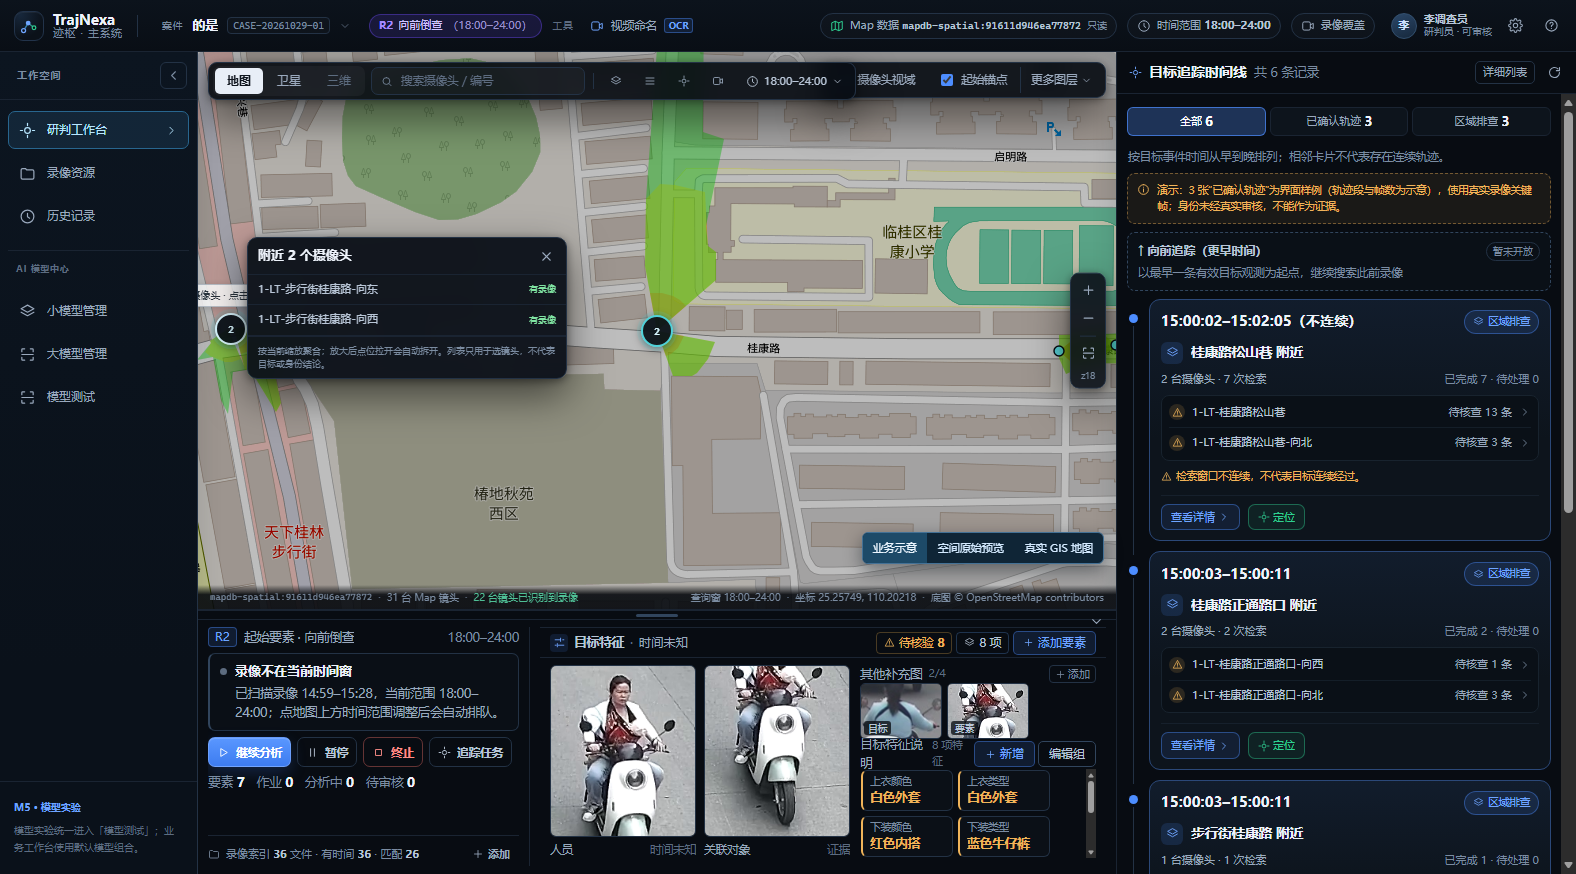
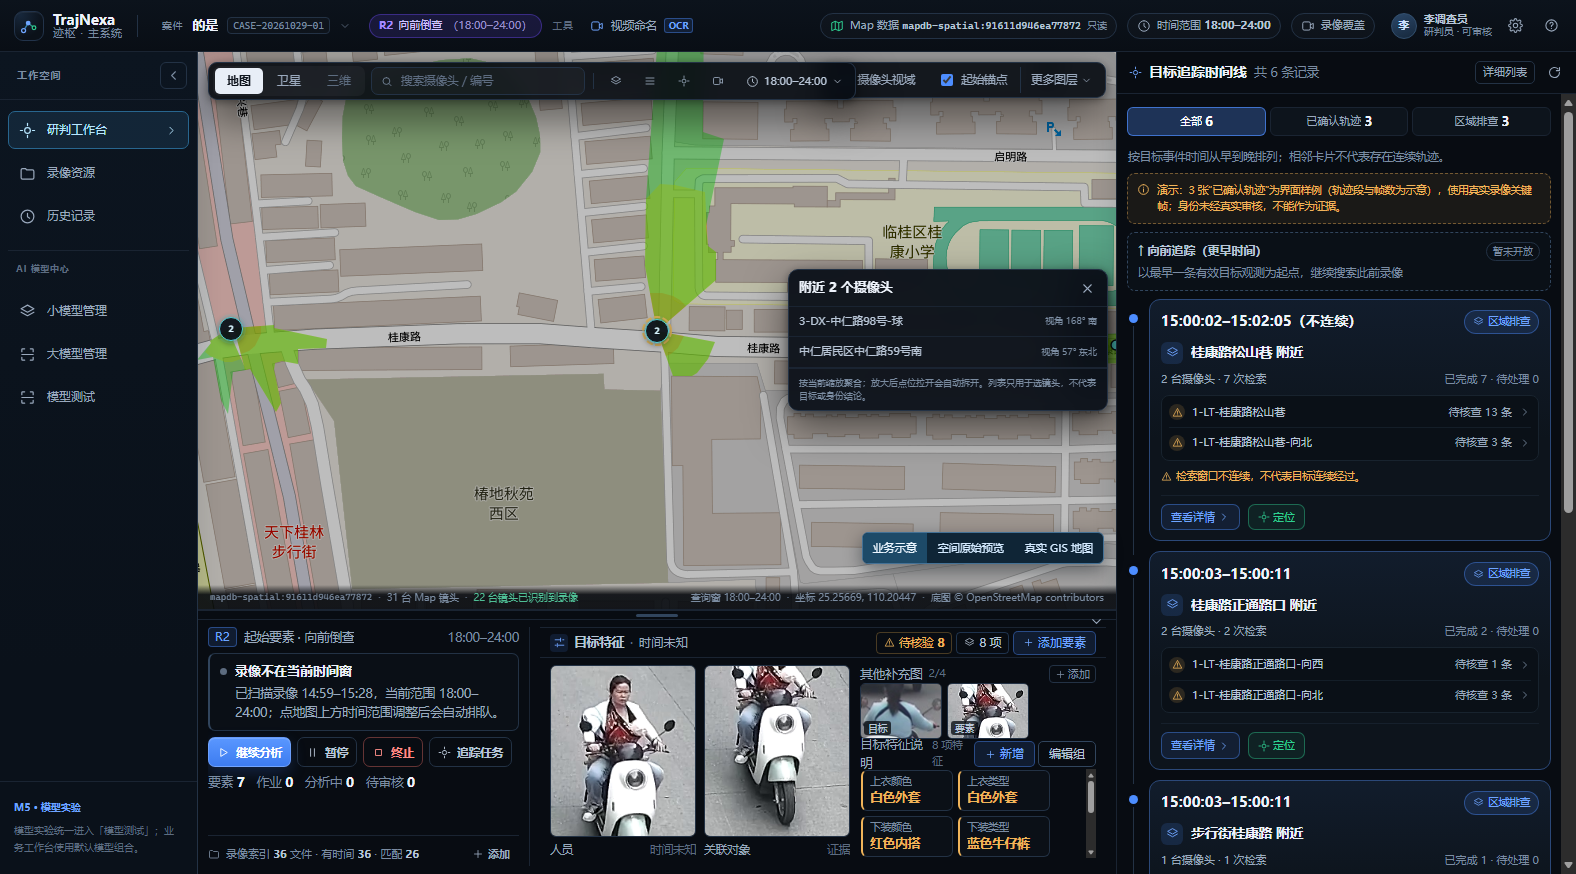
feat(map): compact clusters, bearing rows and camera tabs

Changed region(s): [[0.4664, 0.278, 0.7151, 0.5252], [0.1244, 0.2471, 0.3731, 0.4634], [0.4042, 0.3398, 0.4353, 0.4016]]

diff --git a/frontend/src/components/WorkspaceMap.vue b/frontend/src/components/WorkspaceMap.vue
@@ -1,5 +1,5 @@
 <script setup lang="ts">
-import { computed, onBeforeUnmount, onMounted, ref, watch } from "vue";
+import { computed, nextTick, onBeforeUnmount, onMounted, ref, watch } from "vue";
 import L from "leaflet";
 import "leaflet/dist/leaflet.css";
 import AppIcon from "./ui/AppIcon.vue";
@@ -331,6 +331,16 @@ function applyCustomWindow() {
  * 添加要素（截图）不再影响点灯；没有扫描结果时一律灰色。
  */
 const isRealLit = (camera: SnapshotCamera) => recordingCameraUuids.value.has(camera.camera_uuid ?? "");
+const COMPASS_8 = ["北", "东北", "东", "东南", "南", "西南", "西", "西北"];
+
+/** 视角方向来自 Map 台账的 bearing_deg；没有朝向时明确写未知，不用录像状态替代。 */
+function bearingText(camera: SnapshotCamera): string {
+  const value = camera.bearing_deg;
+  if (value == null || !Number.isFinite(value)) return "未知";
+  const deg = ((value % 360) + 360) % 360;
+  return `${Math.round(deg)}° ${COMPASS_8[Math.round(deg / 45) % 8]}`;
+}
+
 const windowLabel = computed(
   () => `${minutesToLabel(timeWindow.start)}–${timeWindow.end >= 1440 ? "24:00" : minutesToLabel(timeWindow.end)}`,
 );
@@ -343,6 +353,7 @@ const realCardOpen = ref(false);
 /* 镜头聚合：按当前缩放下的屏幕距离分组，避免同一路口的多个点位完全叠在一起。 */
 const CLUSTER_RADIUS_PX = 44;
 const clusterCardOpen = ref(false);
+const clusterTab = ref<CameraTab>("info");
 const clusterMembers = ref<SnapshotCamera[]>([]);
 
 const cardLatLng = ref<L.LatLng | null>(null);
@@ -497,7 +508,7 @@ function drawCameraMarker(camera: SnapshotCamera) {
 
 function drawClusterMarker(group: CameraCluster) {
   const count = group.members.length;
-  const size = count > 9 ? 38 : 32;
+  const size = count > 9 ? 28 : 24;
   const marker = L.marker([group.lat, group.lon], {
     icon: L.divIcon({
       className: "cam-cluster",
@@ -538,6 +549,7 @@ function openCluster(members: SnapshotCamera[], lat: number, lon: number) {
     return litA - litB || cameraCode(a).localeCompare(cameraCode(b), "zh-Hans-CN");
   });
   clusterCardOpen.value = true;
+  clusterTab.value = "info";
   realCardOpen.value = false;
   anchorCardOpen.value = false;
   selectedRealId.value = null;
@@ -545,13 +557,18 @@ function openCluster(members: SnapshotCamera[], lat: number, lon: number) {
   placeCard();
 }
 
-function pickClusterCamera(camera: SnapshotCamera) {
+function pickClusterCamera(camera: SnapshotCamera, tab: CameraTab = "info") {
   clusterCardOpen.value = false;
   pickReal(camera);
+  // 镜头切换的 watcher 会先重置为「摄像头信息」；等它跑完再落到聚合卡选中的页签。
+  void nextTick(() => {
+    cameraTab.value = tab;
+  });
 }
 
 function closeClusterCard() {
   clusterCardOpen.value = false;
+  clusterTab.value = "info";
 }
 
 function pickAnchor(elementId: string) {
@@ -1654,6 +1671,13 @@ function focusAnchor() {
           <h3 class="cam-name">附近 {{ clusterMembers.length }} 个摄像头</h3>
           <button class="icon-btn" aria-label="关闭摄像头列表" @click="closeClusterCard"><AppIcon name="close" :size="13" /></button>
         </header>
+
+        <nav class="cam-tabs cam-cluster-tabs" role="tablist" aria-label="聚合摄像头页签">
+          <button type="button" role="tab" class="cam-tab" :class="{ 'is-on': clusterTab === 'info' }" :aria-selected="clusterTab === 'info'" @click="clusterTab = 'info'">摄像头信息</button>
+          <button type="button" role="tab" class="cam-tab" :class="{ 'is-on': clusterTab === 'investigate' }" :aria-selected="clusterTab === 'investigate'" @click="clusterTab = 'investigate'">目标排查</button>
+        </nav>
+
+        <p v-if="clusterTab === 'investigate'" class="cam-cluster-lead">选择镜头后进入该镜头的目标排查。</p>
         <div class="cam-cluster-list">
           <button
             v-for="camera in clusterMembers"
@@ -1661,10 +1685,10 @@ function focusAnchor() {
             type="button"
             class="cam-cluster-row"
             :title="cameraCode(camera)"
-            @click="pickClusterCamera(camera)"
+            @click="pickClusterCamera(camera, clusterTab)"
           >
             <span class="cc-name">{{ cameraCode(camera) }}</span>
-            <span class="cc-state" :class="{ 'is-lit': isRealLit(camera) }">{{ isRealLit(camera) ? "有录像" : "无录像" }}</span>
+            <span class="cc-bearing" :title="`视角方向：${bearingText(camera)}`">视角 {{ bearingText(camera) }}</span>
           </button>
         </div>
         <p class="cam-cluster-note">按当前缩放聚合；放大后点位拉开会自动拆开。列表只用于选镜头，不代表目标或身份结论。</p>
@@ -2370,6 +2394,18 @@ function focusAnchor() {
   padding: 0 10px 8px;
 }
 
+.cam-cluster-card .cam-tabs {
+  margin: 0 10px 8px;
+}
+
+.cam-cluster-lead {
+  margin: 0;
+  padding: 0 10px 7px;
+  font-size: 9px;
+  line-height: 1.45;
+  color: var(--text-3);
+}
+
 .cam-cluster-list {
   display: grid;
   max-height: 236px;
@@ -2407,14 +2443,12 @@ function focusAnchor() {
   white-space: nowrap;
 }
 
-.cc-state {
+.cc-bearing {
   flex: none;
   font-size: 9px;
-  color: var(--text-4);
-}
-
-.cc-state.is-lit {
-  color: #7fe3a1;
+  color: var(--text-3);
+  font-variant-numeric: tabular-nums;
+  white-space: nowrap;
 }
 
 .cam-cluster-note {
@@ -2845,13 +2879,13 @@ function focusAnchor() {
   display: flex;
   align-items: center;
   justify-content: center;
-  border: 2px solid #4fd1d9;
+  border: 1.5px solid #4fd1d9;
   border-radius: 50%;
   background: rgba(8, 17, 24, 0.94);
   color: #d8f6ff;
-  font: 600 11px/1 ui-monospace, SFMono-Regular, Menlo, monospace;
+  font: 600 10px/1 ui-monospace, SFMono-Regular, Menlo, monospace;
   font-variant-numeric: tabular-nums;
-  box-shadow: 0 0 0 4px rgba(79, 209, 217, 0.16), 0 2px 8px rgba(0, 0, 0, 0.5);
+  box-shadow: 0 0 0 3px rgba(79, 209, 217, 0.14), 0 2px 6px rgba(0, 0, 0, 0.45);
   cursor: pointer;
 }
 

diff --git a/design/80_地图摄像头聚合与多行列表.md b/design/80_地图摄像头聚合与多行列表.md
@@ -4,13 +4,14 @@
 
 - 日期：2026-11-07。
 - 用户要求（m08914）：地图上的摄像头缺少聚合；放大后仍聚合时，点击显示多行卡片。
+- 用户后续（m09336）：聚合点再小一些；聚合卡每行右侧不放「有录像 / 无录像」，改为视角方向；点击摄像头在名称下方插入「摄像头信息 / 目标排查」TAB。
 - 本轮只改 `frontend/src/components/WorkspaceMap.vue` 的镜头点位渲染和卡片，不新增后端接口、不修改 TrajNexa_Map、不写数据库、不产生正式 L2 或身份结论。
-- 聚合只是地图交互：解决同一路口多个镜头点位互相遮挡、单点难以点选的问题；聚合数量、列表行和「有录像」标记都不代表目标、身份或空间精度。
+- 聚合只是地图交互：解决同一路口多个镜头点位互相遮挡、单点难以点选的问题；聚合数量、列表行和单镜头点亮状态都不代表目标、身份或空间精度。
 
 ## 2. 聚合规则
 
 - 以当前缩放级别下的屏幕像素距离分组，阈值 `CLUSTER_RADIUS_PX = 44`。
-- 同一组至少 2 台镜头时显示青色聚合点，圆内数字为镜头数；只有 1 台时仍显示原来的单镜头圆点。
+- 同一组至少 2 台镜头时显示青色聚合点，圆内数字为镜头数；只有 1 台时仍显示原来的单镜头圆点。聚合点直径 24px，数量 >9 时 28px（收尾前为 32/38px）。
 - 聚合只按屏幕距离，不按道路、名称或案件关系；不使用最大运动块、不调用追踪候选、不推断镜头之间的物理关系。
 - 已选中的镜头永不并入聚合，始终单独绘制，保证它的单镜头卡片有明确锚点。
 - `zoomend` 时只重绘镜头点位层，重新计算聚合；缩放后点位间距拉开会自动拆开。
@@ -18,11 +19,13 @@
 
 ## 3. 交互
 
-- 点击单镜头点：沿用原行为，打开镜头卡（摄像头信息 / 目标排查两个页签）。
-- 点击聚合点：打开「附近 N 个摄像头」多行卡片；每行显示镜头名称和「有录像 / 无录像」。
-- 点击列表行：收起聚合卡，打开该镜头的单镜头卡；不会自动创建排查任务，也不会改变镜头状态。
+- 点击单镜头点：沿用原行为，打开镜头卡；名称下方固定「摄像头信息 / 目标排查」两个页签。
+- 点击聚合点：打开「附近 N 个摄像头」卡片；标题下方同样有「摄像头信息 / 目标排查」两个页签，默认「摄像头信息」。
+- 聚合卡每行显示镜头名称和视角方向，例如 `视角 168° 南`；`bearing_deg` 缺失时写 `视角 未知`，不拿录像状态替代方向。方向来自 Map 台账 `bearing_deg`，按整数度 + 8 方位显示，不代表 FOV 边界。
+- 聚合卡不再显示有/无录像文字；单镜头点仍按既有规则显示亮/灰，聚合卡不重复录像状态。排序仍按「有录像」优先、名称排序。
+- 「摄像头信息」页签点击行：收起聚合卡，打开单镜头卡的「摄像头信息」页签。
+- 「目标排查」页签显示「选择镜头后进入该镜头的目标排查。」；点击行：收起聚合卡，打开单镜头卡并直接落在「目标排查」页签；不会自动创建排查任务，也不会改变镜头状态。
 - 关闭聚合卡：点击卡片关闭按钮、点击地图空白处、缩放地图、切换其他镜头/锚点/观测卡片，或关闭 Map 镜头图层。
-- 列表按「有录像」优先、名称排序；「有录像」仍沿用 `recordingCameraUuids` 的名称匹配结果，只表示录像资源识别到该镜头，不代表设备在线，也不代表画面中出现了目标。
 
 ## 4. 隔离边界
 
@@ -33,18 +36,26 @@
 ## 5. 实测
 
 - `npx vue-tsc --noEmit`：exit 0。
-- `npx vite build`：exit 0（626.76 kB JS，仅 chunk-size warning）。
-- Playwright（Edge CDP 9222，1576×874，案件 `4da6cac0-5047-488e-af49-087e1513eb17`）：
-  - 初始视图 11 个聚合点，数字为 `2/3/2/3/2/3/2/2/2/2/2`；放大到 z19 后为 9 个聚合点，部分点位拆开。
-  - 点击可见的 2 镜头聚合点，出现「附近 2 个摄像头」卡片，卡片 320×141.875，两行分别为 `1-LT-步行街桂康路-向东`、`1-LT-步行街桂康路-向西`，均标「有录像」。
-  - 点击第一行后聚合卡消失，单镜头卡出现，名称为 `1-LT-步行街桂康路-向东`；参考图/页签行为不变。
+- `npx vite build`：exit 0（627.82 kB JS，仅 chunk-size warning）。
+- Playwright（Edge CDP 9222，2560×1271，案件 `4da6cac0-5047-488e-af49-087e1513eb17`）：
+  - 初始视图 11 个聚合点，首个聚合点 24×24；放大到 z19 后为 9 个聚合点，部分点位拆开。
+  - 点击 2 镜头聚合点：卡片 320×181.27，标题下出现「摄像头信息 / 目标排查」两个页签，默认「摄像头信息」；两行分别显示 `视角 168° 南`、`视角 57° 东北`，不再显示有/无录像。
+  - 切到「目标排查」：显示「选择镜头后进入该镜头的目标排查。」；点击第一行后聚合卡消失，单镜头卡 360×205.39，名称下方页签仍在，并直接落在「目标排查」。
+  - 从「摄像头信息」页签点击行：单镜头卡默认落在「摄像头信息」；从「目标排查」页签点击行：默认落在「目标排查」。
   - 点击地图空白处或缩放后聚合卡收起；关闭「Map 镜头」图层不残留聚合点。
 - 控制台唯一的 404 是既有的追踪候选证据图请求，与本改动无关。
 
-![摄像头聚合与多行列表](assets/80_camera_clusters.png)
+![聚合卡中的视角方向](assets/80_camera_clusters.png)
+
+![聚合卡页签与目标排查引导](assets/80_cluster_tabs.png)
+
+![从聚合卡进入目标排查页签](assets/80_cluster_investigate.png)
 
 ## 6. 已知边界
 
 - 阈值固定为 44px：物理位置几乎重合的镜头在最大缩放下仍会聚合，这是有意的，避免两个点位完全叠住无法点选；只有点位在屏幕上拉开才会拆开。
 - 聚合卡最多显示 236px 高的列表并可滚动；不提供「全部展开」「按案件筛选」等额外能力。
+- 聚合卡的页签只决定「进入单镜头卡后的默认页签」，不在聚合卡内运行排查或读取录像；目标排查表单仍属于单镜头卡。
+- 视角方向只有整数度和 8 方位，缺失即「未知」；不表示 FOV 边界、遮挡关系或目标方向。
+- 24px 聚合点仍以数字可读和可点选为限；若继续缩小，需要同步重做触控目标和数量字号。
 - 本轮不做聚合动画、不做聚合数量统计到时间线、不把聚合结果持久化。
